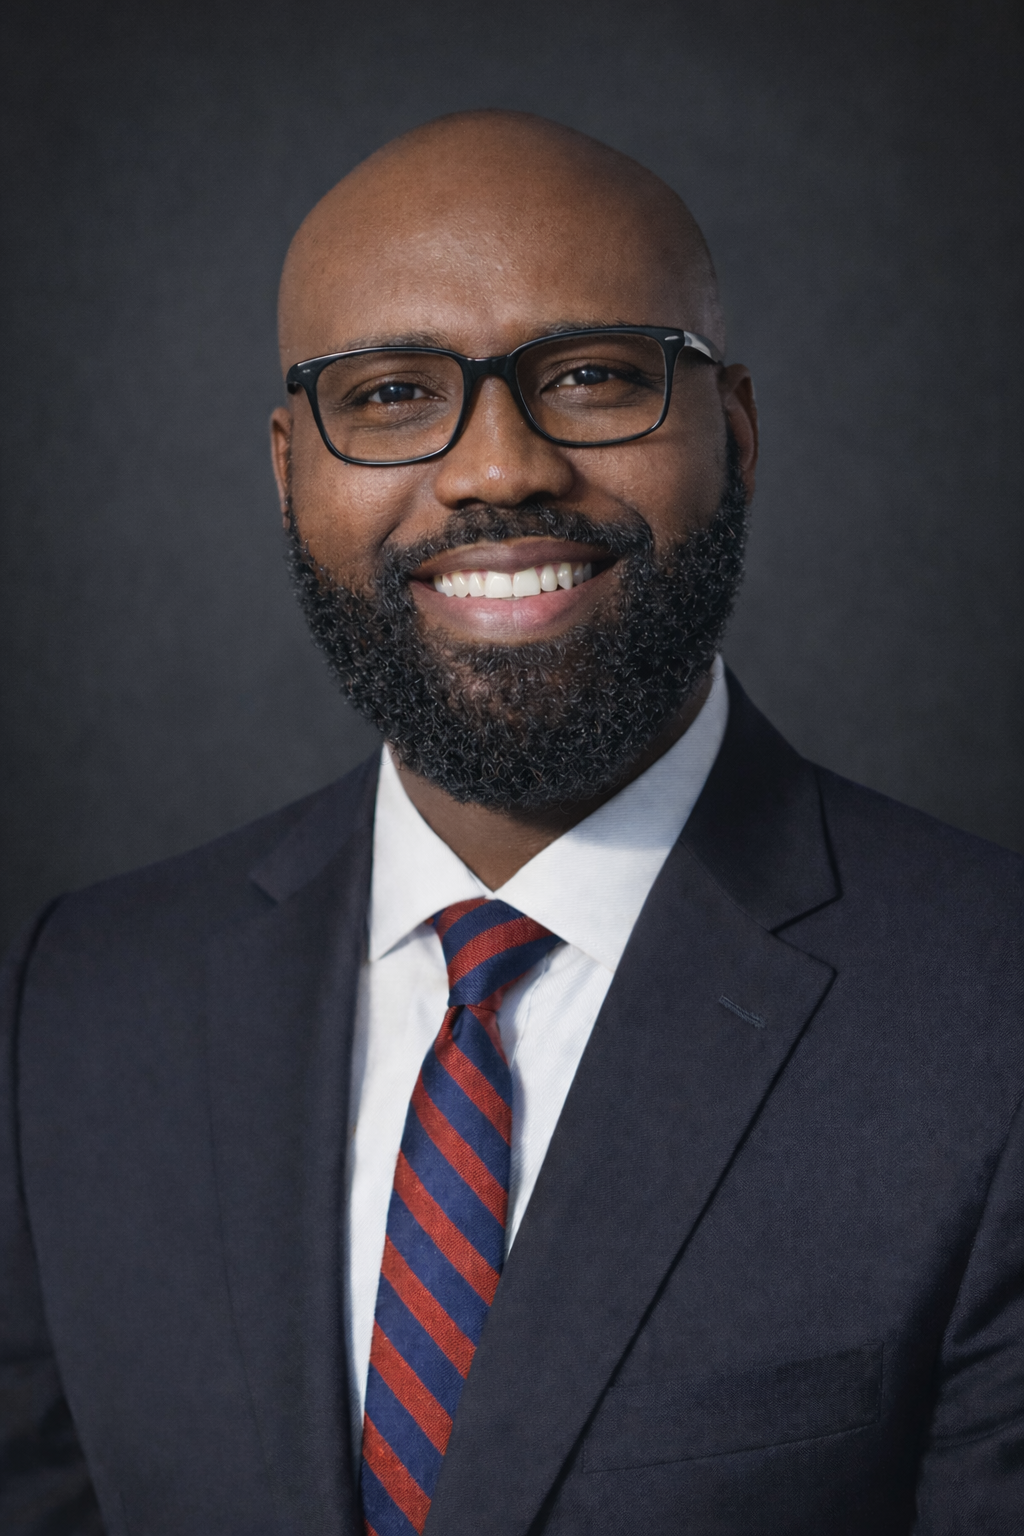
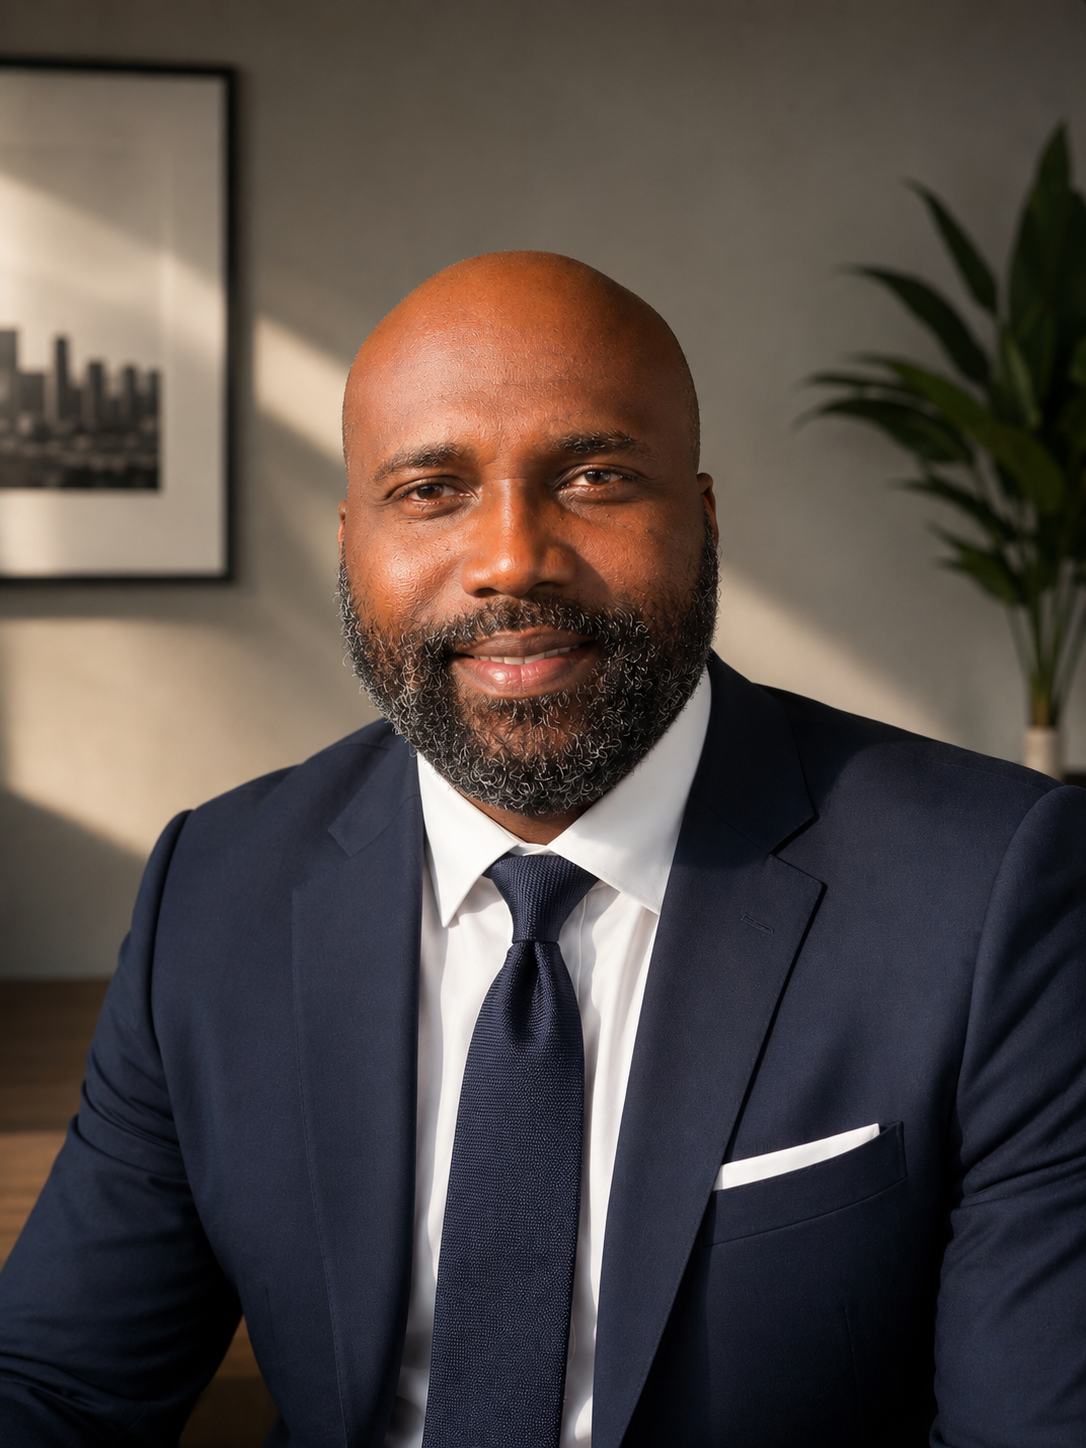
updates

diff --git a/index.html b/index.html
@@ -332,7 +332,7 @@
 
     <div class="hero-visual">
       <div class="hero-img-wrap">
-        <img src="./assets/images/me-portfolio.png" alt="Yaw Assensoh Opoku — Data Analyst"
+        <img src="./assets/images/absolute-image.png" alt="Yaw Assensoh Opoku — Data Analyst"
              onerror="this.outerHTML='<div class=hero-img-placeholder><i class=fas fa-user-circle></i><p>Add your headshot at ./assets/images/profile.jpg</p></div>'">
       </div>
       <div class="exp-badge">
